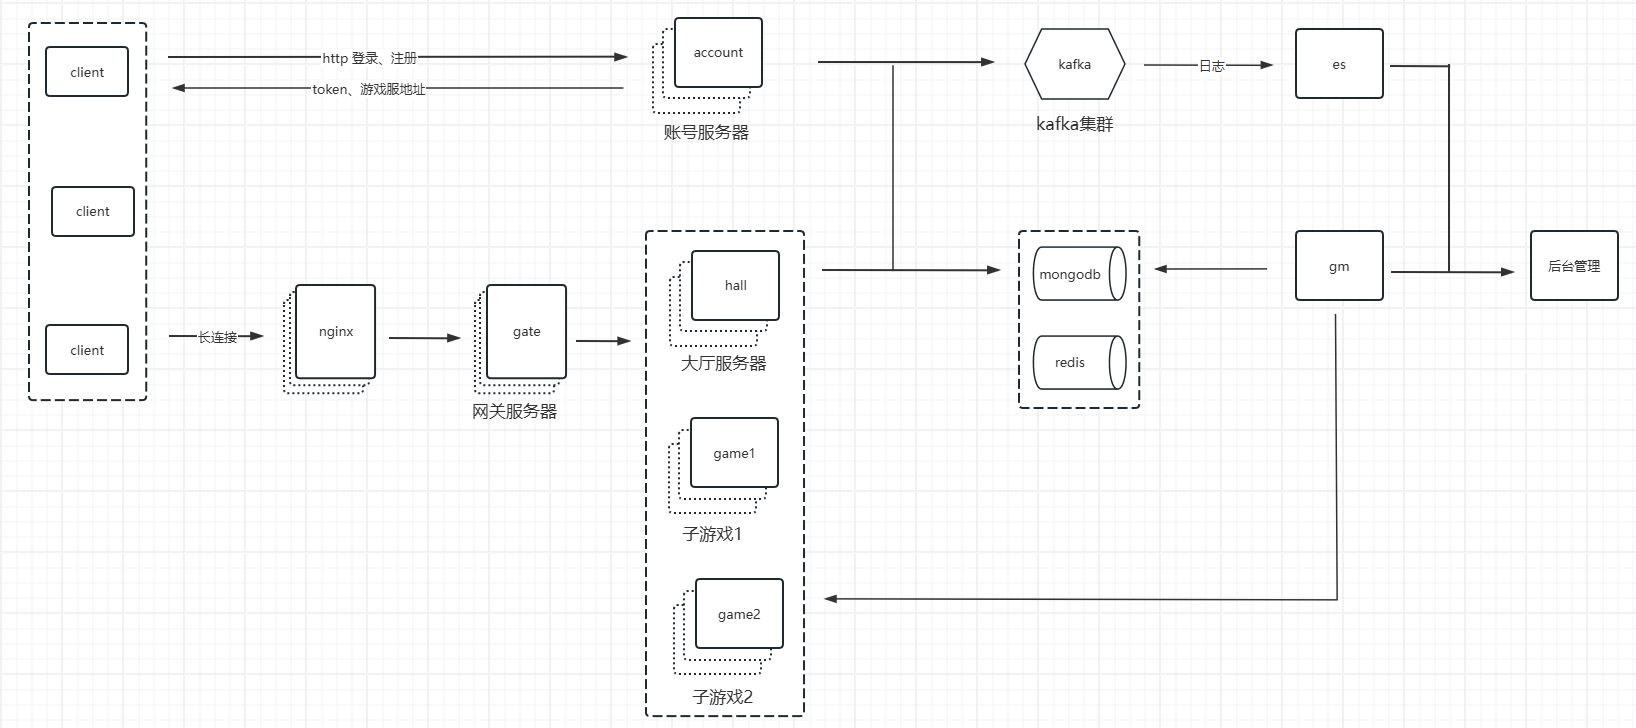
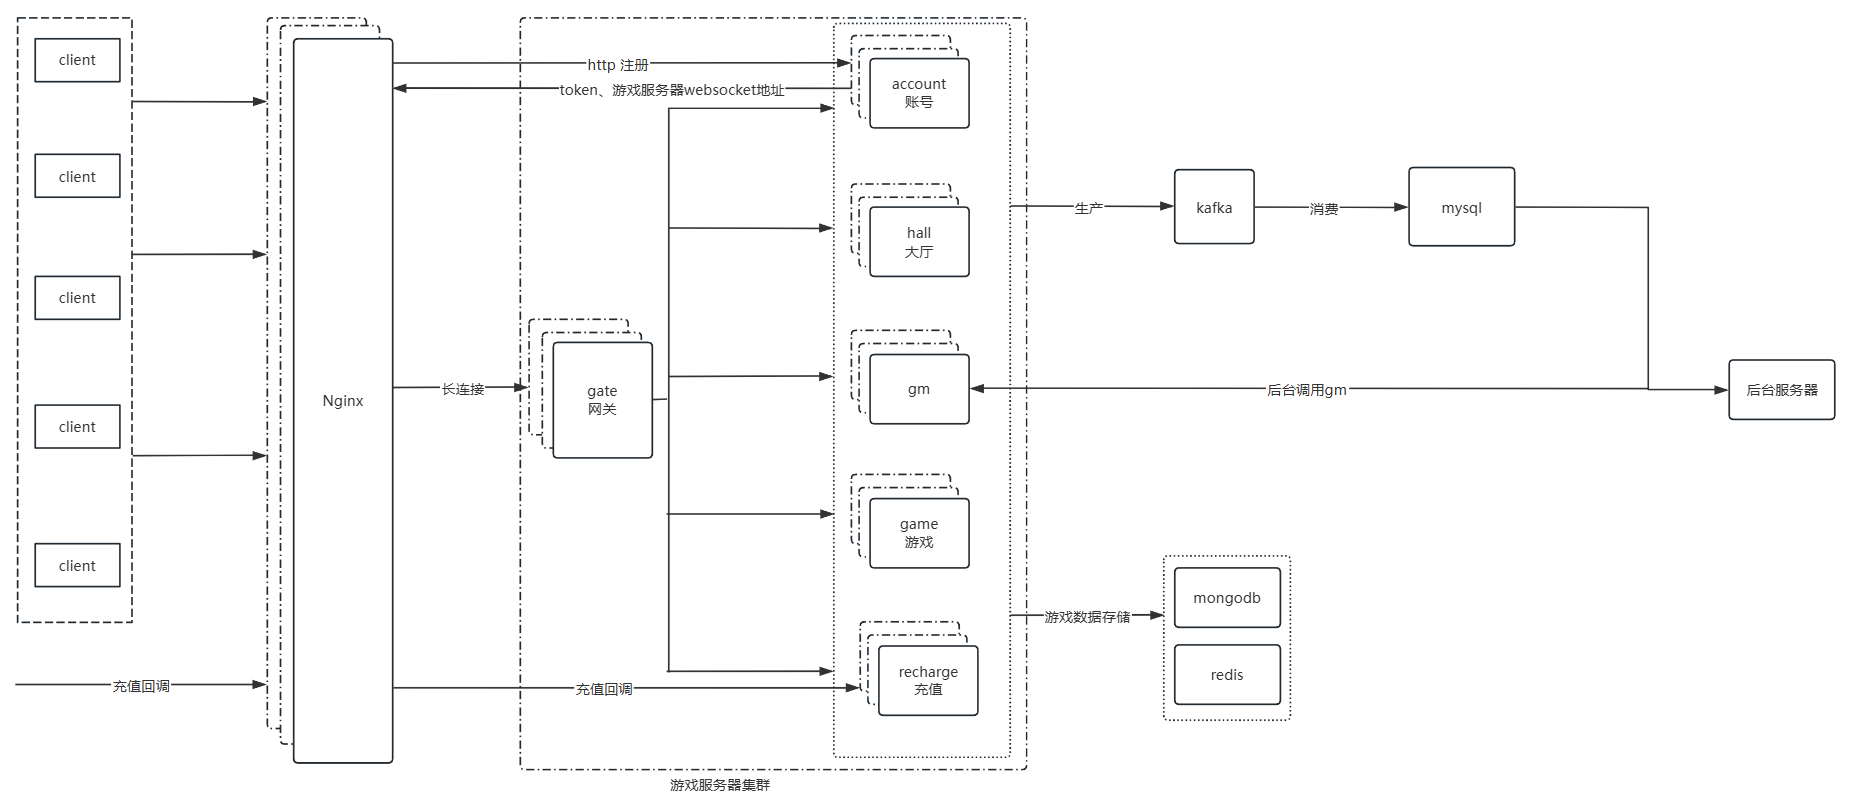
更新文档

diff --git a/ploy/src/main/java/com/jjg/game/ploy/games/airraid/AirRaidPloyController.java b/ploy/src/main/java/com/jjg/game/ploy/games/airraid/AirRaidPloyController.java
@@ -409,7 +409,7 @@ public class AirRaidPloyController extends AbstractMultiPloyController<AirRaidPl
             syncMsg.headImgId = playerController.getPlayer().getHeadImgId();
             syncMsg.betAmount = bet;
             syncMsg.betIndex = betIndex;
-            messageSync(syncMsg, false);
+            messageSync(syncMsg);
             broadcastLocalPlayersExcept(res, playerController.playerId());
 
             log.info("AirRaid 下注成功 playerId={}, bet={}, betIndex={}", playerController.playerId(), bet, betIndex);
@@ -535,7 +535,7 @@ public class AirRaidPloyController extends AbstractMultiPloyController<AirRaidPl
         msg.stopTime = resolvePhaseStopTime(phaseDurationMs);
         msg.currentMultiplier = getAuthoritativeCurrentMultiplier(System.currentTimeMillis());
         msg.crashMultiplier = gameRoom.getCrashMultiplier();
-        messageSync(msg, false);
+        messageSync(msg);
         broadcastLocalPlayers(buildGameStateResponse(msg));
     }
 
@@ -549,7 +549,7 @@ public class AirRaidPloyController extends AbstractMultiPloyController<AirRaidPl
         syncMsg.cashOutMultiplier = cashOutMultiplier;
         syncMsg.winAmount = winAmount;
         syncMsg.betIndex = betIndex;
-        messageSync(syncMsg, false);
+        messageSync(syncMsg);
 
         ResAirRaidCashOut res = new ResAirRaidCashOut(Code.SUCCESS);
         res.playerId = playerId;

diff --git a/ploy/src/main/java/com/jjg/game/ploy/controller/AbstractMultiPloyController.java b/ploy/src/main/java/com/jjg/game/ploy/controller/AbstractMultiPloyController.java
@@ -63,15 +63,10 @@ public abstract class AbstractMultiPloyController<T extends PlayerMultiPloyGameD
      * 消息同步到其他节点
      *
      * @param msg      要同步的消息
-     * @param toClient 是否同时推送给本节点的客户端玩家
      */
-    protected void messageSync(AbstractMessage msg, boolean toClient) {
+    protected void messageSync(AbstractMessage msg) {
         PFMessage pfMessage = MessageUtil.getPFMessage(msg);
         clusterSystem.notifyNode(pfMessage, Set.of(NodeType.HALL.toString(), NodeType.GAME.toString())::contains);
-
-        if (toClient) {
-            broadcastLocalPlayers(msg);
-        }
     }
 
     /**

diff --git a/README.md b/README.md
@@ -3,8 +3,8 @@
 ![](.\server.png)
 
 ```
+Nginx:负载均衡，流量进行分发
 account：账号服务器，负责账号的注册和登录。client 通过http进行注册或者登录成功后，返回token和游戏服务器的地址
-Nginx:负载均衡，将流量进行分发到 gate 服务
 gate：网关服务器，负责与 client 保持连接，并且根据不同的业务场景将 client 的请求数据转发到其他服务
 hall：大厅服务器，负责大厅业务场景逻辑
 game：子游戏
